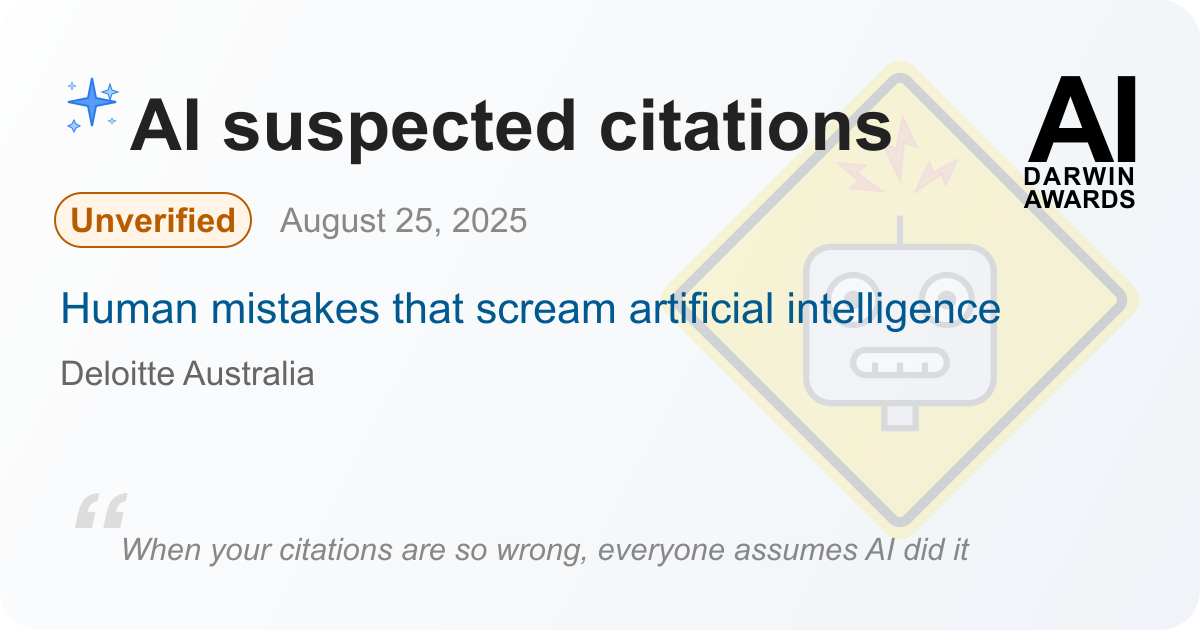
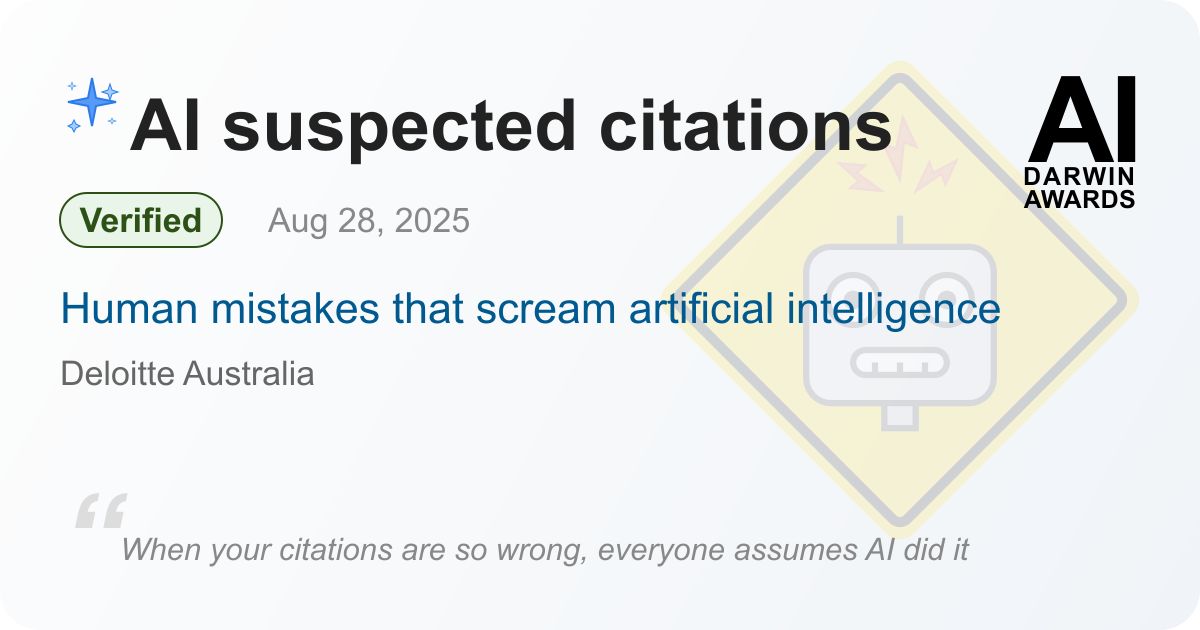
Updated Deloitte nominee to verified

Changed region(s): [[0.0308, 0.3016, 0.4317, 0.3921]]

diff --git a/docs/nominees/deloitte-robo-debt.html b/docs/nominees/deloitte-robo-debt.html
@@ -7,7 +7,7 @@
   <meta charset="UTF-8">
   <meta name="viewport" content="width=device-width, initial-scale=1.0">
   <!-- Basic Meta -->
-  <title>Deloitte Citation Chaos - “Welfare Compliance Report Meets Robot Writer?” - 2025 AI Darwin Award Nominee</title>
+  <title>Deloitte Citation Chaos - “Welfare Compliance Report Meets Robot Writer” - 2025 AI Darwin Award Nominee</title>
   <meta name="description" content="Deloitte Australia, one of the nation&#39;s premier consulting firms, found themselves in an embarrassing spotlight when errors were discovered in a major report th">
   <meta name="robots" content="index, follow">
   <meta http-equiv="Content-Security-Policy" content="default-src 'self'; img-src 'self' https:; style-src 'self' 'unsafe-inline'; script-src 'self' 'unsafe-inline' https://cloud.umami.is; connect-src 'self' https://api-gateway.umami.dev; object-src 'none'; base-uri 'self'; form-action 'self';">
@@ -18,7 +18,7 @@
   <link rel="stylesheet" href="../styles/toast.css">
 
   <!-- Open Graph (Facebook, LinkedIn) -->
-  <meta property="og:title" content="Deloitte Citation Chaos - “Welfare Compliance Report Meets Robot Writer?” - 2025 AI Darwin Award">
+  <meta property="og:title" content="Deloitte Citation Chaos - “Welfare Compliance Report Meets Robot Writer” - 2025 AI Darwin Award">
   <meta property="og:description" content="Deloitte Australia, one of the nation&#39;s premier consulting firms, found themselves in an embarrassing spotlight when errors were discovered in a major report th">
   <meta property="og:type" content="article">
   <meta property="og:url" content="https://aidarwinawards.org/nominees/deloitte-robo-debt.html">
@@ -26,14 +26,14 @@
   <meta property="og:image" content="https://aidarwinawards.org/images/nominees/deloitte-citation-chaos.png">
   <meta property="og:image:width" content="1200">
   <meta property="og:image:height" content="630">
-  <meta property="og:image:alt" content="Deloitte Citation Chaos - “Welfare Compliance Report Meets Robot Writer?”">
+  <meta property="og:image:alt" content="Deloitte Citation Chaos - “Welfare Compliance Report Meets Robot Writer”">
 
   <!-- Twitter Cards -->
   <meta name="twitter:card" content="summary_large_image">
-  <meta name="twitter:title" content="Deloitte Citation Chaos - “Welfare Compliance Report Meets Robot Writer?” - 2025 AI Darwin Award">
+  <meta name="twitter:title" content="Deloitte Citation Chaos - “Welfare Compliance Report Meets Robot Writer” - 2025 AI Darwin Award">
   <meta name="twitter:description" content="Deloitte Australia, one of the nation&#39;s premier consulting firms, found themselves in an embarrassing spotlight when errors were discovered in a major report th">
   <meta name="twitter:image" content="https://aidarwinawards.org/images/nominees/deloitte-citation-chaos.png">
-  <meta name="twitter:image:alt" content="Deloitte Citation Chaos - “Welfare Compliance Report Meets Robot Writer?”">
+  <meta name="twitter:image:alt" content="Deloitte Citation Chaos - “Welfare Compliance Report Meets Robot Writer”">
   <meta name="twitter:site" content="@aidarwinawards">
 
   <!-- Article-specific meta -->
@@ -47,7 +47,7 @@
   {
     "@context": "https://schema.org",
     "@type": "Article",
-    "headline": "Deloitte Citation Chaos - “Welfare Compliance Report Meets Robot Writer?”",
+    "headline": "Deloitte Citation Chaos - “Welfare Compliance Report Meets Robot Writer”",
     "description": "Deloitte Australia, one of the nation&#39;s premier consulting firms, found themselves in an embarrassing spotlight when errors were discovered in a major report th",
     "author": { "@type": "Organization", "name": "AI Darwin Awards" },
     "datePublished": "2025-07-01",
@@ -94,7 +94,7 @@
     </nav>
 
     <article>
-      <h2>Deloitte Citation Chaos - “Welfare Compliance Report Meets Robot Writer?”</h2>
+      <h2>Deloitte Citation Chaos - “Welfare Compliance Report Meets Robot Writer”</h2>
 
       <!-- Full nominee content sections go here -->
       <section id="details">
@@ -103,12 +103,12 @@
             <button class="share-button" data-share-url="https://aidarwinawards.org/nominees/deloitte-robo-debt.html" title="Share this nominee" aria-label="Share this nominee">
               <img src="../images/share.svg" alt="Share this nominee" />
             </button>
-            <span class="unverified-badge">Unverified</span>
+            <span class="verified-badge">Verified</span>
           </div>
-          <p class="attribution"><strong>Nominee:</strong> Deloitte Australia for producing a government report containing citation errors so spectacular they raised immediate suspicions of AI involvement.</p>
+          <p class="attribution"><strong>Nominee:</strong> Deloitte Australia for producing a government report containing citation errors so spectacular they raised immediate suspicions of AI involvement, then admitting to using AI after initially declining to comment.</p>
           <p class="attribution"><strong>Reported by:</strong> Australian Financial Review investigation into suspicious content in government contractor reports - August 25, 2025.</p>
-          <div class="nominee-section"><h3>The Discovery</h3><p>Deloitte Australia, one of the nation&#39;s premier consulting firms, found themselves in an embarrassing spotlight when errors were discovered in a major report they prepared for the federal government on welfare compliance. The errors were so peculiar and systematic that investigators immediately suspected artificial intelligence had been involved in the writing process—the modern equivalent of &#39;the dog ate my homework&#39; but for professional services.</p></div><div class="nominee-section"><h3>The Suspicious Pattern</h3><p>The Australian Financial Review revealed that &#39;new errors have been found in a major report Deloitte prepared for the federal government, raising further suspicions some of the content&#39; was AI-generated. The nature of these errors—apparently involving citations and quotes related to Australia&#39;s infamous robodebt case—were so characteristic of AI hallucinations that experts immediately pointed fingers at large language models rather than human incompetence.</p></div><div class="nominee-section"><h3>The Robodebt Irony</h3><p>If AI was indeed involved, the irony would be exquisite: using potentially unreliable artificial intelligence to analyse the consequences of unreliable automated systems. Robodebt became a national scandal precisely because automated systems made false determinations about welfare recipients. Having an AI potentially fabricate evidence about a case involving fake automated decisions would achieve what philosophers might call &#39;recursive digital incompetence.&#39;</p></div><div class="nominee-section"><h3>The Quandary</h3><p>Deloitte declined to answer questions about whether artificial intelligence was used in creating the report, leaving observers to choose between two equally entertaining possibilities: either the firm deployed AI so carelessly that it fabricated citations, or their human researchers produced work so error-prone that everyone assumed a machine must have done it. Both scenarios suggest a spectacular failure of quality control.</p></div><div class="nominee-section"><h3>Why They&#39;re Unverified</h3><p>This incident represents either the perfect AI Darwin Award candidate or the perfect example of how AI paranoia has reached peak absurdity. If confirmed as AI-generated errors, it would showcase the ultimate irony of robots lying about other robots&#39; lies. If it&#39;s purely human error, it demonstrates that humans can now fail so spectacularly that artificial intelligence gets the blame. Either way, when your professional work is so flawed that everyone immediately suspects AI involvement, perhaps it&#39;s time to reassess your quality assurance processes.</p></div>
-          <p><strong>Sources:</strong> <a href="https://www.afr.com/companies/professional-services/deloitte-report-suspected-of-ai-invented-quote-from-robo-debt-case-20250825-p5mpjj" target="_blank" rel="noopener">Australian Financial Review: Deloitte report suspected of containing AI invented quote</a></p>
+          <div class="nominee-section"><h3>The Discovery</h3><p>Deloitte Australia, one of the nation&#39;s premier consulting firms, found themselves in an embarrassing spotlight when errors were discovered in a major report they prepared for the federal government on welfare compliance. The errors were so peculiar and systematic that investigators immediately suspected artificial intelligence had been involved in the writing process—the modern equivalent of &#39;the dog ate my homework&#39; but for professional services.</p></div><div class="nominee-section"><h3>The Suspicious Pattern</h3><p>The Australian Financial Review revealed that &#39;new errors have been found in a major report Deloitte prepared for the federal government, raising further suspicions some of the content&#39; was AI-generated. The nature of these errors—apparently involving citations and quotes related to Australia&#39;s infamous robodebt case—were so characteristic of AI hallucinations that experts immediately pointed fingers at large language models rather than human incompetence.</p></div><div class="nominee-section"><h3>The Robodebt Irony</h3><p>The irony proved exquisite: using unreliable artificial intelligence to analyse the consequences of unreliable automated systems. Robodebt became a national scandal precisely because automated systems made false determinations about welfare recipients. Having an AI fabricate evidence about a case involving fake automated decisions achieved what philosophers might call &#39;recursive digital incompetence.&#39;</p></div><div class="nominee-section"><h3>The Confession</h3><p>Initially, Deloitte declined to answer questions about whether artificial intelligence was used in creating the report. However, after University of Sydney academic Dr Christopher Rudge highlighted multiple errors and speculated about AI hallucinations, Deloitte was forced to issue a revised version of the $440,000 report. Buried in the methodology section was their quiet confession: they had used &#39;a generative AI large language model (Azure OpenAI GPT-4o) based tool chain&#39; for what they euphemistically called &#39;traceability and documentation gaps.&#39; The revised report deleted a dozen nonexistent references, fabricated quotes from Federal Court judgments, and imaginary academic papers—while Deloitte agreed to refund the government partially for their AI-assisted fiction writing.</p></div><div class="nominee-section"><h3>Why They&#39;re Now Verified</h3><p>What began as suspicion based on telltale AI hallucination patterns has now been confirmed through Deloitte&#39;s own admission. This case perfectly demonstrates the AI Darwin Award criteria: spectacular overconfidence in artificial intelligence, deployment without adequate verification, and a cover-up attempt that made the situation worse. Dr Rudge concluded that &#39;the core analysis was done by an AI&#39; and declared the recommendations untrustworthy—academic speak for &#39;you can&#39;t build policy on robot fantasies.&#39; Deloitte&#39;s journey from &#39;we don&#39;t comment on our methods&#39; to &#39;okay, we used AI and it hallucinated everything&#39; represents the complete lifecycle of AI overconfidence meeting professional accountability. When your $440,000 government report is so obviously AI-generated that academics immediately spot the hallucinations, and you have to issue refunds while quietly admitting to using GPT-4o, you&#39;ve achieved the perfect storm of technological hubris and quality control failure that defines the AI Darwin Awards.</p></div>
+          <p><strong>Sources:</strong> <a href="https://www.afr.com/companies/professional-services/deloitte-report-suspected-of-ai-invented-quote-from-robo-debt-case-20250825-p5mpjj" target="_blank" rel="noopener">Australian Financial Review: Deloitte report suspected of containing AI invented quote</a> | <a href="https://www.afr.com/companies/professional-services/deloitte-to-refund-government-after-admitting-ai-errors-in-440k-report-20251005-p5n05p" target="_blank" rel="noopener">Deloitte to refund government, admits using AI in $440k report</a></p>
         </div>
       
       <hr class="nominee-nav-divider" />
@@ -132,7 +132,7 @@
       <img src="../images/sparkles.svg" alt="AI Darwin Awards Logo" class="footer-logo" loading="lazy">
       <div class="footer-text-group">
         <div class="footer-title">AI Darwin Awards</div>
-        <div class="footer-tagline">When your citations are so wrong, everyone assumes AI did it</div>
+        <div class="footer-tagline">When your citations are so wrong, everyone assumes AI did it—and they&#39;re right</div>
       </div>
       <img src="../images/sparkles.svg" alt="AI Darwin Awards Logo" class="footer-logo" loading="lazy">
     </div>

diff --git a/docs/nominees-2025.html b/docs/nominees-2025.html
@@ -103,7 +103,7 @@
               },
               {
                 "@type": "Article",
-                "name": "Deloitte Citation Chaos - “Welfare Compliance Report Meets Robot Writer?”",
+                "name": "Deloitte Citation Chaos - “Welfare Compliance Report Meets Robot Writer”",
                 "description": "Deloitte Australia, one of the nation's premier consulting firms, found themselves in an embarrassing spotlight when errors were discovered in a major report th",
                 "url": "https://aidarwinawards.org/nominees/deloitte-robo-debt.html",
                 "author": {
@@ -509,13 +509,13 @@
             <article class="nominee" id="deloitte-robo-debt-nominee">
                 <details>
                     <summary>
-                        <span class="nominee-title">Deloitte Citation Chaos - “Welfare Compliance Report Meets Robot Writer?”</span>
-                        <h3 class="category">Suspected AI Mishap Award</h3>
-                        <span class="unverified-badge">Unverified</span>
+                        <span class="nominee-title">Deloitte Citation Chaos - “Welfare Compliance Report Meets Robot Writer”</span>
+                        <h3 class="category">Government AI Hallucination Award</h3>
+                        <span class="verified-badge">Verified</span>
                     </summary>
                     <div class="nominee-details">
                         <p class="attribution">
-                            <strong>Nominee:</strong> Deloitte Australia for producing a government report containing citation errors so spectacular they raised immediate suspicions of AI involvement.
+                            <strong>Nominee:</strong> Deloitte Australia for producing a government report containing citation errors so spectacular they raised immediate suspicions of AI involvement, then admitting to using AI after initially declining to comment.
                         </p>
                         <p class="attribution">
                             <strong>Reported by:</strong> Australian Financial Review investigation into suspicious content in government contractor reports - August 25, 2025.
@@ -539,18 +539,18 @@
                         </div>
                         <div class="nominee-section">
                             <h3>The Robodebt Irony</h3>
-                            <p>If AI was indeed involved, the irony would be exquisite: using potentially unreliable artificial intelligence to analyse the consequences of unreliable automated systems. Robodebt became a national scandal precisely because automated systems made false determinations about welfare recipients. Having an AI potentially fabricate evidence about a case involving fake automated decisions would achieve what philosophers might call &#39;recursive digital incompetence.&#39;</p>
+                            <p>The irony proved exquisite: using unreliable artificial intelligence to analyse the consequences of unreliable automated systems. Robodebt became a national scandal precisely because automated systems made false determinations about welfare recipients. Having an AI fabricate evidence about a case involving fake automated decisions achieved what philosophers might call &#39;recursive digital incompetence.&#39;</p>
                         </div>
                         <div class="nominee-section">
-                            <h3>The Quandary</h3>
-                            <p>Deloitte declined to answer questions about whether artificial intelligence was used in creating the report, leaving observers to choose between two equally entertaining possibilities: either the firm deployed AI so carelessly that it fabricated citations, or their human researchers produced work so error-prone that everyone assumed a machine must have done it. Both scenarios suggest a spectacular failure of quality control.</p>
+                            <h3>The Confession</h3>
+                            <p>Initially, Deloitte declined to answer questions about whether artificial intelligence was used in creating the report. However, after University of Sydney academic Dr Christopher Rudge highlighted multiple errors and speculated about AI hallucinations, Deloitte was forced to issue a revised version of the $440,000 report. Buried in the methodology section was their quiet confession: they had used &#39;a generative AI large language model (Azure OpenAI GPT-4o) based tool chain&#39; for what they euphemistically called &#39;traceability and documentation gaps.&#39; The revised report deleted a dozen nonexistent references, fabricated quotes from Federal Court judgments, and imaginary academic papers—while Deloitte agreed to refund the government partially for their AI-assisted fiction writing.</p>
                         </div>
                         <div class="nominee-section">
-                            <h3>Why They&#39;re Unverified</h3>
-                            <p>This incident represents either the perfect AI Darwin Award candidate or the perfect example of how AI paranoia has reached peak absurdity. If confirmed as AI-generated errors, it would showcase the ultimate irony of robots lying about other robots&#39; lies. If it&#39;s purely human error, it demonstrates that humans can now fail so spectacularly that artificial intelligence gets the blame. Either way, when your professional work is so flawed that everyone immediately suspects AI involvement, perhaps it&#39;s time to reassess your quality assurance processes.</p>
+                            <h3>Why They&#39;re Now Verified</h3>
+                            <p>What began as suspicion based on telltale AI hallucination patterns has now been confirmed through Deloitte&#39;s own admission. This case perfectly demonstrates the AI Darwin Award criteria: spectacular overconfidence in artificial intelligence, deployment without adequate verification, and a cover-up attempt that made the situation worse. Dr Rudge concluded that &#39;the core analysis was done by an AI&#39; and declared the recommendations untrustworthy—academic speak for &#39;you can&#39;t build policy on robot fantasies.&#39; Deloitte&#39;s journey from &#39;we don&#39;t comment on our methods&#39; to &#39;okay, we used AI and it hallucinated everything&#39; represents the complete lifecycle of AI overconfidence meeting professional accountability. When your $440,000 government report is so obviously AI-generated that academics immediately spot the hallucinations, and you have to issue refunds while quietly admitting to using GPT-4o, you&#39;ve achieved the perfect storm of technological hubris and quality control failure that defines the AI Darwin Awards.</p>
                         </div>
                         <p>
-                            <strong>Sources:</strong> <a href="https://www.afr.com/companies/professional-services/deloitte-report-suspected-of-ai-invented-quote-from-robo-debt-case-20250825-p5mpjj" target="_blank" rel="noopener">Australian Financial Review: Deloitte report suspected of containing AI invented quote</a>
+                            <strong>Sources:</strong> <a href="https://www.afr.com/companies/professional-services/deloitte-report-suspected-of-ai-invented-quote-from-robo-debt-case-20250825-p5mpjj" target="_blank" rel="noopener">Australian Financial Review: Deloitte report suspected of containing AI invented quote</a> | <a href="https://www.afr.com/companies/professional-services/deloitte-to-refund-government-after-admitting-ai-errors-in-440k-report-20251005-p5n05p" target="_blank" rel="noopener">Deloitte to refund government, admits using AI in $440k report</a>
                         </p>
                     </div>
                 </details>
@@ -1098,7 +1098,7 @@
                             <p>While there is no definitive proof of AI involvement (yet), this nomination represents the perfect collision of governmental authority and spectacular failure of quality control that experts suspect may involve artificial intelligence overconfidence. Whether or not AI was actually used to generate citations, the White House managed to combine the credibility of government science with fabricated references that experts immediately recognised as characteristic of AI hallucinations. The response—dismissing fabricated scientific citations as &#39;formatting issues&#39;—suggests either profound misunderstanding of scientific methodology or remarkable confidence that the public won&#39;t notice when the Emperor&#39;s new health policy has no actual citations. If AI was indeed involved, it would demonstrate breathtaking faith in machine-generated references for federal health policy. If it wasn&#39;t AI, then human researchers produced work so error-prone that everyone immediately assumed artificial intelligence must have been involved—which might be even more embarrassing. We eagerly await evidence from whistleblowers or officials confirming AI usage in order to verify this nomination, because we believe this could be a real contender for the top prize.</p>
                         </div>
                         <p>
-                            <strong>Sources:</strong> <a href="https://www.washingtonpost.com/health/2025/05/29/maha-rfk-jr-ai-garble/" target="_blank" rel="noopener">The Washington Post: White House MAHA Report may have garbled science by using AI, experts say</a> | <a href="https://www.notus.org/health-science/make-america-healthy-again-report-citation-errors" target="_blank" rel="noopener">NOTUS: The MAHA Report Cites Studies That Don&#39;t Exist</a> | <a href="https://www.forbes.com/sites/saradorn/2025/05/29/white-house-blames-nonexistent-medical-citations-in-rfk-jrs-maha-report-on-formatting-issues/" target="_blank" rel="noopener">Forbes: Citations In RFK Jr.’s ‘MAHA’ Report On ‘Formatting Issues’</a> | <a href="https://www.science.org/content/article/trump-officials-downplay-fake-citations-high-profile-report-children-s-health" target="_blank" rel="noopener">Science Advisor: Trump officials downplay fake citations in high-profile report on children’s health</a> | <a href="https://www.statnews.com/2025/06/20/maha-children-health-report-citations-errors-sloppy/" target="_blank" rel="noopener">STAT: The MAHA children’s health report mis-cited our research. That’s sloppy — and worrying</a>
+                            <strong>Sources:</strong> <a href="https://www.washingtonpost.com/health/2025/05/29/maha-rfk-jr-ai-garble/" target="_blank" rel="noopener">The Washington Post: White House MAHA Report may have garbled science by using AI, experts say</a> | <a href="https://www.notus.org/health-science/make-america-healthy-again-report-citation-errors" target="_blank" rel="noopener">NOTUS: The MAHA Report Cites Studies That Don&#39;t Exist</a> | <a href="https://www.forbes.com/sites/saradorn/2025/05/29/white-house-blames-nonexistent-medical-citations-in-rfk-jrs-maha-report-on-formatting-issues/" target="_blank" rel="noopener">Forbes: Citations In RFK Jr.’s ‘MAHA’ Report On ‘Formatting Issues’</a> | <a href="https://www.science.org/content/article/trump-officials-downplay-fake-citations-high-profile-report-children-s-health" target="_blank" rel="noopener">Science Advisor: Trump officials downplay fake citations in high-profile report on children’s health</a> | <a href="https://www.statnews.com/2025/06/20/maha-children-health-report-citations-errors-sloppy/" target="_blank" rel="noopener">STAT: The MAHA children’s health report mis-cited our research. That’s sloppy — and worrying</a> | <a href="https://www.washingtonpost.com/health/2025/05/30/maha-report-ai-white-house/" target="_blank" rel="noopener">The MAHA Report’s AI fingerprints, annotated</a>
                         </p>
                     </div>
                 </details>

diff --git a/docs/nominees/white-house-maha-report.html b/docs/nominees/white-house-maha-report.html
@@ -108,7 +108,7 @@
           <p class="attribution"><strong>Nominee:</strong> The White House, HHS, and the Trump administration&#39;s &#39;Make America Healthy Again&#39; team for producing a health report featuring fabricated scientific citations that experts say bear the hallmarks of AI generation.</p>
           <p class="attribution"><strong>Reported by:</strong> Multiple major outlets including Washington Post, NOTUS, Forbes, and New York Times  - May 29, 2025.</p>
           <div class="nominee-section"><h3>The Innovation</h3><p>The Trump administration&#39;s &#39;Make America Healthy Again&#39; initiative promised to revolutionise American healthcare policy through evidence-based recommendations. The resulting report, developed over three months with HHS collaboration, represented what officials called comprehensive research into health policy—complete with extensive citations that would make any academic proud. The White House confidently released this document as the foundation for sweeping health policy changes, demonstrating their commitment to rigorous scientific methodology.</p></div><div class="nominee-section"><h3>The Fabrication Festival</h3><p>Multiple major news outlets discovered that the report contained fabricated scientific citations, with experts immediately suspecting AI involvement in the writing process. The most spectacular example involved citing Columbia University epidemiologist Katherine Keyes as the author of a paper she never wrote. When contacted by Axios reporter Sareen Habeshian, Dr Keyes confirmed she had not authored the referenced study, creating what STAT described as citations to studies that simply &#39;don&#39;t exist.&#39; The pattern of errors was so characteristic of AI hallucinations that experts across multiple publications independently reached the same conclusion about likely artificial intelligence involvement.</p></div><div class="nominee-section"><h3>The Official Response</h3><p>When confronted with evidence of fabricated citations, the White House response demonstrated masterful spin techniques. Press Secretary Karoline Leavitt dismissed the fabricated citations as mere &#39;formatting issues&#39;—apparently unaware that inventing nonexistent scientific papers represents an error slightly more serious than inconsistent margins. HHS spokesperson Andrew Nixon confirmed there were &#39;minor citation and formatting errors&#39; but assured the public that the report&#39;s &#39;substantive recommendations&#39; remained sound. This response suggested that fabricated evidence is merely a cosmetic concern, like choosing the wrong font for a wedding invitation.</p></div><div class="nominee-section"><h3>The Academic Reality Check</h3><p>The incident revealed a fundamental misunderstanding of how scientific evidence works in policy development. Creating fictional studies to support health recommendations is rather like creating fictional ingredients to support recipe development—the end result might look impressive, but it&#39;s unlikely to nourish anyone. Dr Katherine Keyes&#39; denial of authorship wasn&#39;t just embarrassing; it represented the kind of basic verification failure that would earn failing marks in undergraduate coursework, let alone federal health policy development.</p></div><div class="nominee-section"><h3>Damned If They Did, Damned If They Didn&#39;t</h3><p>While there is no definitive proof of AI involvement (yet), this nomination represents the perfect collision of governmental authority and spectacular failure of quality control that experts suspect may involve artificial intelligence overconfidence. Whether or not AI was actually used to generate citations, the White House managed to combine the credibility of government science with fabricated references that experts immediately recognised as characteristic of AI hallucinations. The response—dismissing fabricated scientific citations as &#39;formatting issues&#39;—suggests either profound misunderstanding of scientific methodology or remarkable confidence that the public won&#39;t notice when the Emperor&#39;s new health policy has no actual citations. If AI was indeed involved, it would demonstrate breathtaking faith in machine-generated references for federal health policy. If it wasn&#39;t AI, then human researchers produced work so error-prone that everyone immediately assumed artificial intelligence must have been involved—which might be even more embarrassing. We eagerly await evidence from whistleblowers or officials confirming AI usage in order to verify this nomination, because we believe this could be a real contender for the top prize.</p></div>
-          <p><strong>Sources:</strong> <a href="https://www.washingtonpost.com/health/2025/05/29/maha-rfk-jr-ai-garble/" target="_blank" rel="noopener">The Washington Post: White House MAHA Report may have garbled science by using AI, experts say</a> | <a href="https://www.notus.org/health-science/make-america-healthy-again-report-citation-errors" target="_blank" rel="noopener">NOTUS: The MAHA Report Cites Studies That Don&#39;t Exist</a> | <a href="https://www.forbes.com/sites/saradorn/2025/05/29/white-house-blames-nonexistent-medical-citations-in-rfk-jrs-maha-report-on-formatting-issues/" target="_blank" rel="noopener">Forbes: Citations In RFK Jr.’s ‘MAHA’ Report On ‘Formatting Issues’</a> | <a href="https://www.science.org/content/article/trump-officials-downplay-fake-citations-high-profile-report-children-s-health" target="_blank" rel="noopener">Science Advisor: Trump officials downplay fake citations in high-profile report on children’s health</a> | <a href="https://www.statnews.com/2025/06/20/maha-children-health-report-citations-errors-sloppy/" target="_blank" rel="noopener">STAT: The MAHA children’s health report mis-cited our research. That’s sloppy — and worrying</a></p>
+          <p><strong>Sources:</strong> <a href="https://www.washingtonpost.com/health/2025/05/29/maha-rfk-jr-ai-garble/" target="_blank" rel="noopener">The Washington Post: White House MAHA Report may have garbled science by using AI, experts say</a> | <a href="https://www.notus.org/health-science/make-america-healthy-again-report-citation-errors" target="_blank" rel="noopener">NOTUS: The MAHA Report Cites Studies That Don&#39;t Exist</a> | <a href="https://www.forbes.com/sites/saradorn/2025/05/29/white-house-blames-nonexistent-medical-citations-in-rfk-jrs-maha-report-on-formatting-issues/" target="_blank" rel="noopener">Forbes: Citations In RFK Jr.’s ‘MAHA’ Report On ‘Formatting Issues’</a> | <a href="https://www.science.org/content/article/trump-officials-downplay-fake-citations-high-profile-report-children-s-health" target="_blank" rel="noopener">Science Advisor: Trump officials downplay fake citations in high-profile report on children’s health</a> | <a href="https://www.statnews.com/2025/06/20/maha-children-health-report-citations-errors-sloppy/" target="_blank" rel="noopener">STAT: The MAHA children’s health report mis-cited our research. That’s sloppy — and worrying</a> | <a href="https://www.washingtonpost.com/health/2025/05/30/maha-report-ai-white-house/" target="_blank" rel="noopener">The MAHA Report’s AI fingerprints, annotated</a></p>
         </div>
       
       <hr class="nominee-nav-divider" />
